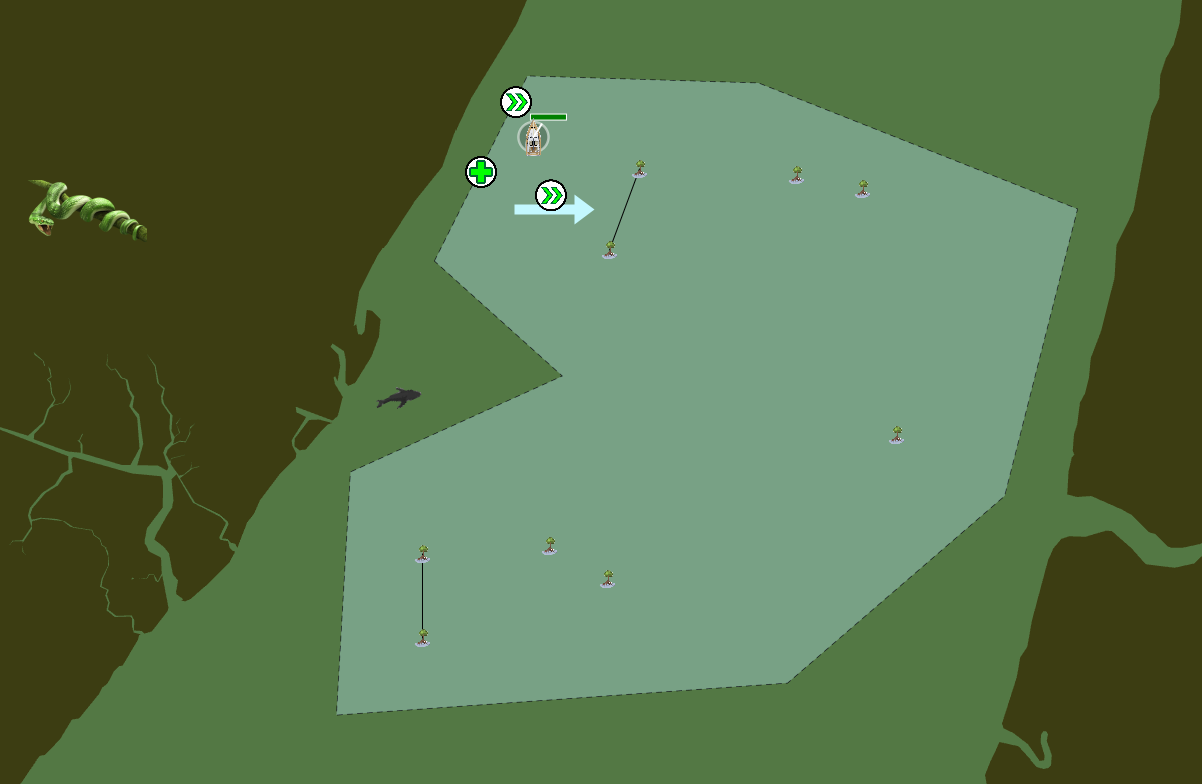
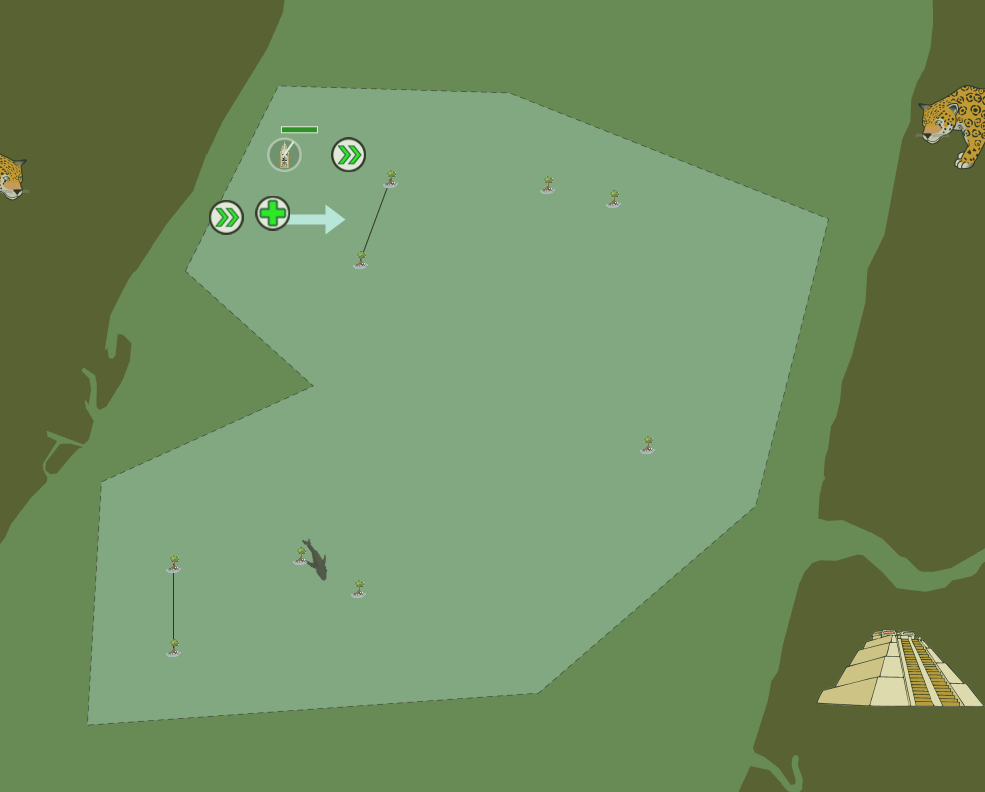
made grey power versions of new power up images and added them to player controller - moved powerup images into a folder
story[1315]

diff --git a/Visualizer/src/main/java/controllers/PlayerController.java b/Visualizer/src/main/java/controllers/PlayerController.java
@@ -65,25 +65,25 @@ public class PlayerController {
 
         Competitor boat = dataSource.getCompetitor();
         if (boat.getBoatType() == 0) {
-            Image boatImage = new Image(getClass().getClassLoader().getResource("images/yachtLandscape.png").toString());
+            Image boatImage = new Image(getClass().getClassLoader().getResource("images/boats/yachtLandscape.png").toString());
             playerImageView.setImage(boatImage);
         } else if (boat.getBoatType() == 1) {
-            Image boatImage = new Image(getClass().getClassLoader().getResource("images/cogLandscape.png").toString());
+            Image boatImage = new Image(getClass().getClassLoader().getResource("images/boats/cogLandscape.png").toString());
             playerImageView.setImage(boatImage);
         } else if (boat.getBoatType() == 2) {
-            Image boatImage = new Image(getClass().getClassLoader().getResource("images/frigateLandscape.png").toString());
+            Image boatImage = new Image(getClass().getClassLoader().getResource("images/boats/frigateLandscape.png").toString());
             playerImageView.setImage(boatImage);
         } else if (boat.getBoatType() == 3) {
-            Image boatImage = new Image(getClass().getClassLoader().getResource("images/galleonLandscape.png").toString());
+            Image boatImage = new Image(getClass().getClassLoader().getResource("images/boats/galleonLandscape.png").toString());
             playerImageView.setImage(boatImage);
         } else if (boat.getBoatType() == 4) {
-            Image boatImage = new Image(getClass().getClassLoader().getResource("images/boatLandscape.png").toString());
+            Image boatImage = new Image(getClass().getClassLoader().getResource("images/boats/boatLandscape.png").toString());
             playerImageView.setImage(boatImage);
         } else if (boat.getBoatType() == 5) {
-            Image boatImage = new Image(getClass().getClassLoader().getResource("images/catLandscape.png").toString());
+            Image boatImage = new Image(getClass().getClassLoader().getResource("images/boats/catLandscape.png").toString());
             playerImageView.setImage(boatImage);
         } else if (boat.getBoatType() == 6) {
-            Image boatImage = new Image(getClass().getClassLoader().getResource("images/pirateLandscape.png").toString());
+            Image boatImage = new Image(getClass().getClassLoader().getResource("images/boats/pirateLandscape.png").toString());
             playerImageView.setImage(boatImage);
         }
 
@@ -111,9 +111,9 @@ public class PlayerController {
         String speed = String.format("%.1f", boat.getVelocity());
         boatSpeedLabel.setText(speed + "m/s");
         if (boat.hasSpeedBoost()) {
-            this.speed.setGraphic(new ImageView(new Image("/images/tinyspeed.png")));
+            this.speed.setGraphic(new ImageView(new Image("/images/powerups/tinyspeed.png")));
         } else {
-            this.speed.setGraphic(new ImageView(new Image("/images/greySpeed.png")));
+            this.speed.setGraphic(new ImageView(new Image("/images/powerups/speed_grey.png")));
         }
 
         Double w = stage.getWidth() / 2.5;
@@ -121,9 +121,9 @@ public class PlayerController {
 
 
         if (boat.hasPotion()) {
-            this.potion.setGraphic(new ImageView(new Image("/images/tinyhealth.png")));
+            this.potion.setGraphic(new ImageView(new Image("/images/powerups/tinyhealth.png")));
         } else {
-            this.potion.setGraphic(new ImageView(new Image("/images/greyPotion.png")));
+            this.potion.setGraphic(new ImageView(new Image("/images/powerups/potion_grey.png")));
         }
 
     }
@@ -132,14 +132,14 @@ public class PlayerController {
      * Greys out the speed icon
      */
     void greyOutBoost() {
-        this.speed.setGraphic(new ImageView(new Image("/images/greySpeed.png")));
+        this.speed.setGraphic(new ImageView(new Image("/images/powerups/speed_grey.png")));
     }
 
     /**
      * Greys out the potion icon
      */
     void greyOutPotion() {
-        this.potion.setGraphic(new ImageView(new Image("/images/greyPotion.png")));
+        this.potion.setGraphic(new ImageView(new Image("/images/powerups/potion_grey.png")));
 
     }
 

diff --git a/Visualizer/src/main/java/controllers/LobbyController.java b/Visualizer/src/main/java/controllers/LobbyController.java
@@ -25,13 +25,11 @@ import javafx.scene.image.Image;
 import javafx.scene.image.ImageView;
 import javafx.scene.layout.GridPane;
 import javafx.stage.Screen;
-import javafx.stage.Stage;
 import javafx.util.Duration;
 import models.Competitor;
 import parsers.RaceStatusEnum;
 import utilities.DataSource;
 import utilities.EnvironmentConfig;
-import utilities.Sounds;
 import utility.BinaryPackager;
 
 import java.io.IOException;
@@ -43,7 +41,6 @@ import java.util.stream.Collectors;
 import static java.lang.Math.abs;
 import static parsers.xml.race.ThemeEnum.AMAZON;
 import static parsers.xml.race.ThemeEnum.ANTARCTICA;
-import static parsers.xml.race.ThemeEnum.BERMUDA;
 
 
 /**
@@ -162,13 +159,13 @@ public class LobbyController implements Initializable {
         primaryScreenBounds = Screen.getPrimary().getBounds();
         starterList.setItems(competitorList);
 
-        yacht = new Image(getClass().getClassLoader().getResource("images/yachtLandscape.png").toString());
-        cog = new Image(getClass().getClassLoader().getResource("images/cogLandscape.png").toString());
-        frigate = new Image(getClass().getClassLoader().getResource("images/frigateLandscape.png").toString());
-        galleon = new Image(getClass().getClassLoader().getResource("images/galleonLandscape.png").toString());
-        boat = new Image(getClass().getClassLoader().getResource("images/boatLandscape.png").toString());
-        cat = new Image(getClass().getClassLoader().getResource("images/catLandscape.png").toString());
-        pirate = new Image(getClass().getClassLoader().getResource("images/pirateLandscape.png").toString());
+        yacht = new Image(getClass().getClassLoader().getResource("images/boats/yachtLandscape.png").toString());
+        cog = new Image(getClass().getClassLoader().getResource("images/boats/cogLandscape.png").toString());
+        frigate = new Image(getClass().getClassLoader().getResource("images/boats/frigateLandscape.png").toString());
+        galleon = new Image(getClass().getClassLoader().getResource("images/boats/galleonLandscape.png").toString());
+        boat = new Image(getClass().getClassLoader().getResource("images/boats/boatLandscape.png").toString());
+        cat = new Image(getClass().getClassLoader().getResource("images/boats/catLandscape.png").toString());
+        pirate = new Image(getClass().getClassLoader().getResource("images/boats/pirateLandscape.png").toString());
 
         addTextLimiter(nameText, 8);
 

diff --git a/Visualizer/src/main/java/Elements/BoatModel.java b/Visualizer/src/main/java/Elements/BoatModel.java
@@ -43,25 +43,25 @@ public class BoatModel extends Group {
                 8.0, -15.0); //right
 
         if (boatType == 0) {
-            Image boatImage = new Image(getClass().getClassLoader().getResource("images/yacht.png").toString());
+            Image boatImage = new Image(getClass().getClassLoader().getResource("images/boats/yacht.png").toString());
             boatModel.setFill(new ImagePattern(boatImage));
         } else if (boatType == 1) {
-            Image boatImage = new Image(getClass().getClassLoader().getResource("images/cog.png").toString());
+            Image boatImage = new Image(getClass().getClassLoader().getResource("images/boats/cog.png").toString());
             boatModel.setFill(new ImagePattern(boatImage));
         } else if (boatType == 2) {
-            Image boatImage = new Image(getClass().getClassLoader().getResource("images/frigate.png").toString());
+            Image boatImage = new Image(getClass().getClassLoader().getResource("images/boats/frigate.png").toString());
             boatModel.setFill(new ImagePattern(boatImage));
         } else if (boatType == 3) {
-            Image boatImage = new Image(getClass().getClassLoader().getResource("images/galleon.png").toString());
+            Image boatImage = new Image(getClass().getClassLoader().getResource("images/boats/galleon.png").toString());
             boatModel.setFill(new ImagePattern(boatImage));
         } else if (boatType == 4) {
-            Image boatImage = new Image(getClass().getClassLoader().getResource("images/boat.png").toString());
+            Image boatImage = new Image(getClass().getClassLoader().getResource("images/boats/boat.png").toString());
             boatModel.setFill(new ImagePattern(boatImage));
         } else if (boatType == 5) {
-            Image boatImage = new Image(getClass().getClassLoader().getResource("images/cat.png").toString());
+            Image boatImage = new Image(getClass().getClassLoader().getResource("images/boats/cat.png").toString());
             boatModel.setFill(new ImagePattern(boatImage));
         } else if (boatType == 6) {
-            Image boatImage = new Image(getClass().getClassLoader().getResource("images/pirate.png").toString());
+            Image boatImage = new Image(getClass().getClassLoader().getResource("images/boats/pirate.png").toString());
             boatModel.setFill(new ImagePattern(boatImage));
         }
 

diff --git a/Visualizer/src/main/java/Elements/PowerUpModel.java b/Visualizer/src/main/java/Elements/PowerUpModel.java
@@ -23,10 +23,10 @@ public class PowerUpModel extends ImageView {
         double originalScale = 0.4;
         switch (receivedPowerUp.getType()) {
             case BOOST:
-                image = new Image("/images/tinyspeed.png");
+                image = new Image("/images/powerups/tinyspeed.png");
                 break;
             case POTION:
-                image = new Image("/images/tinyhealth.png");
+                image = new Image("/images/powerups/tinyhealth.png");
                 break;
             default:
                 image = null;
